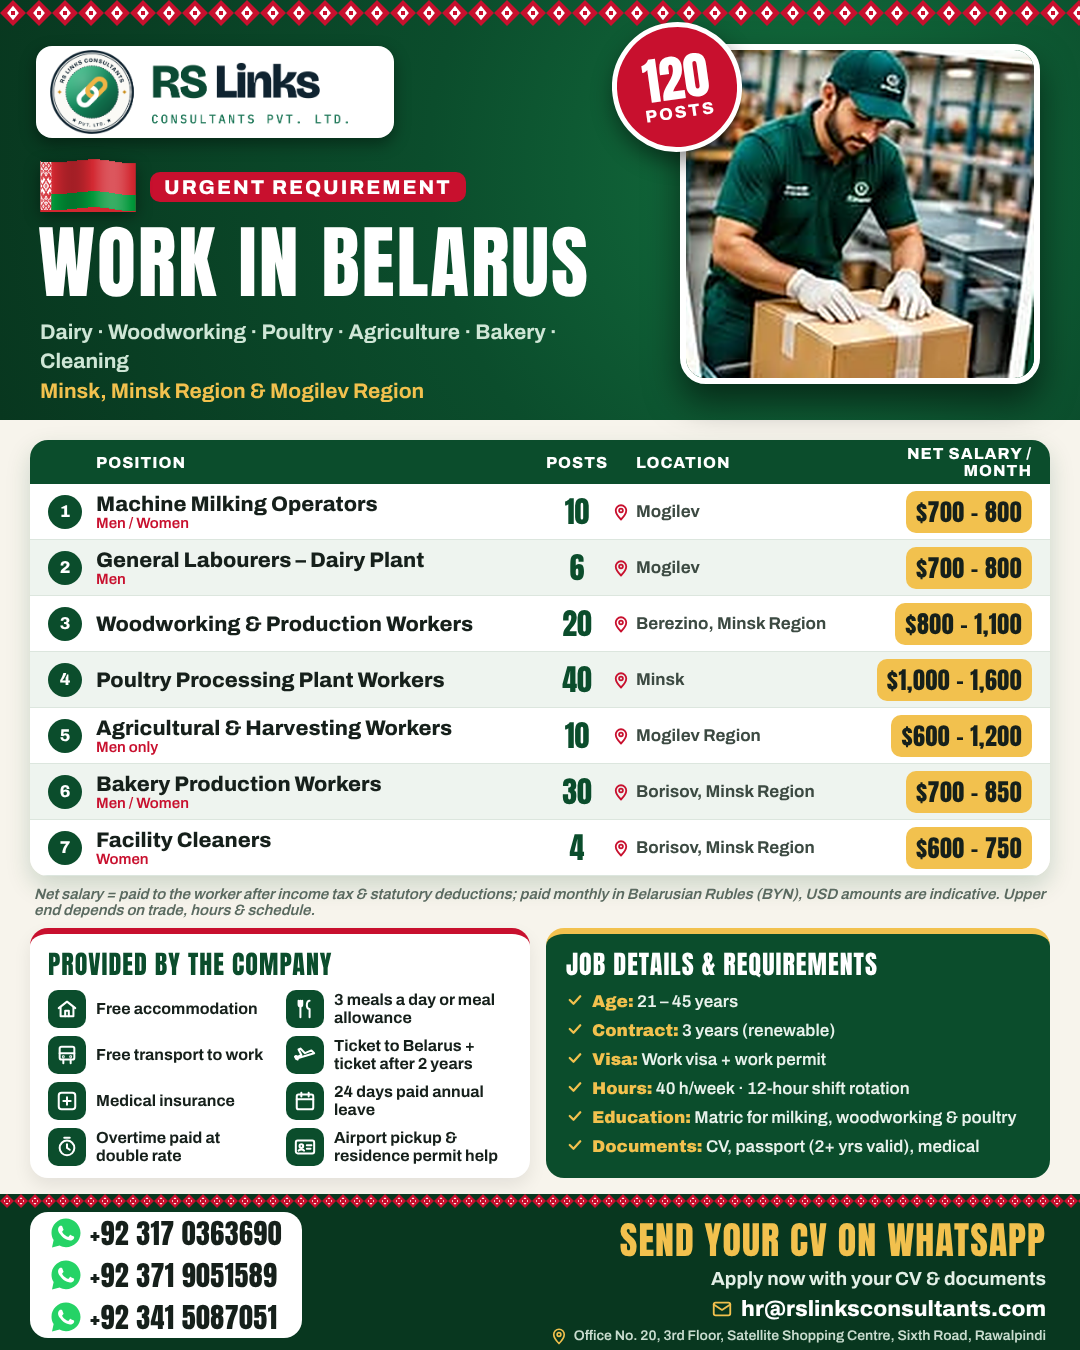
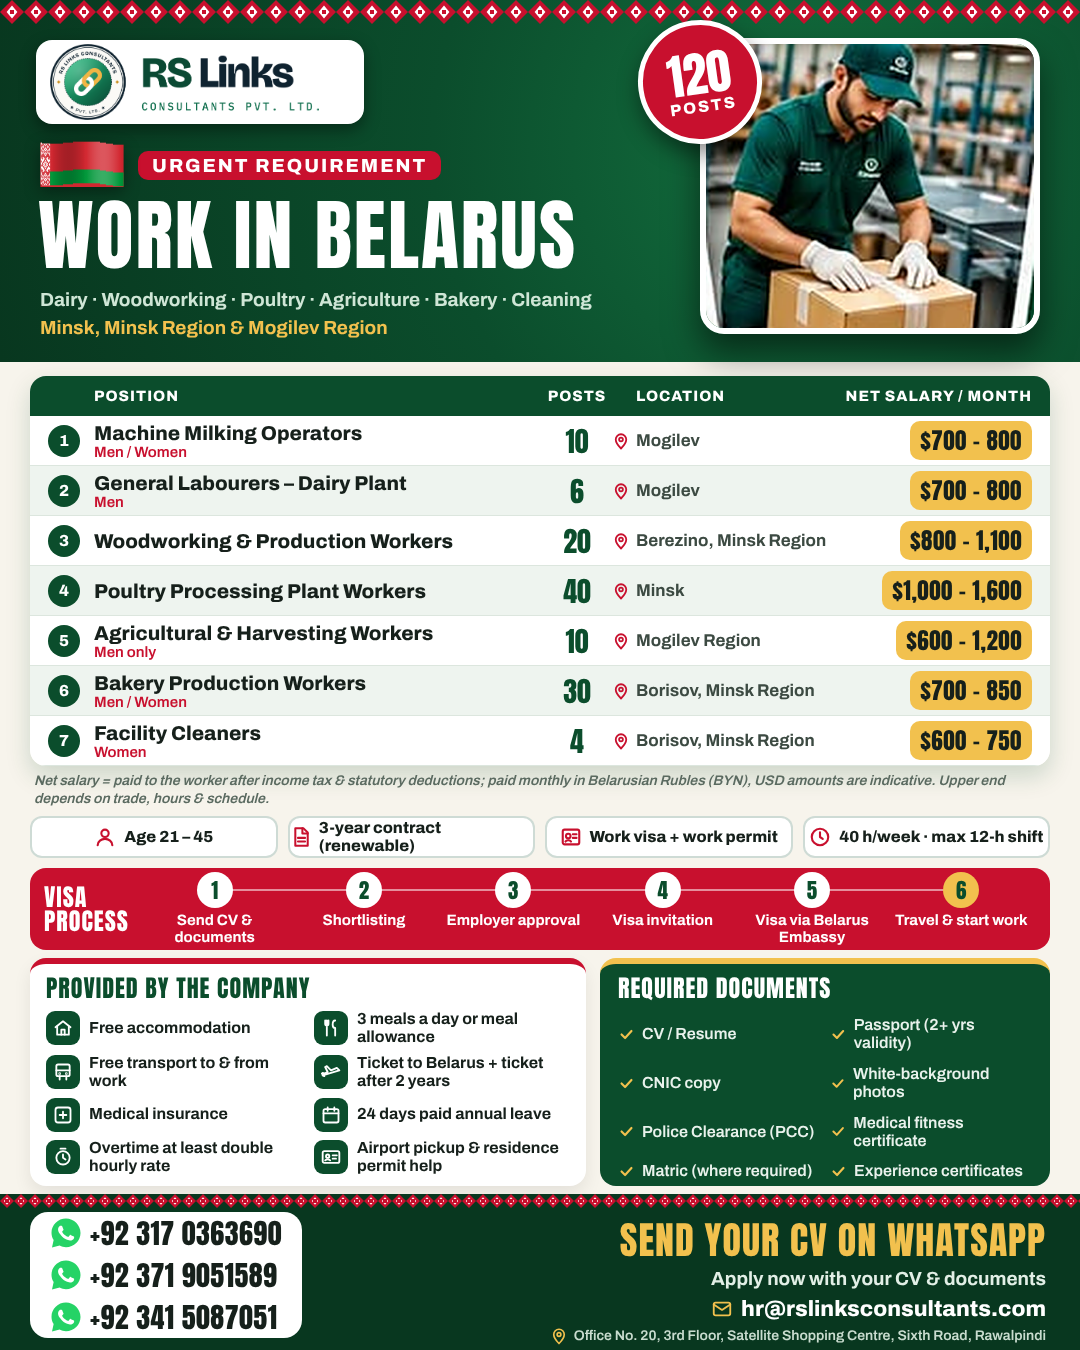
Belarus 120 ad v2: accuracy fixes vs demand letter, add visa process and required documents
Claude-Session: https://claude.ai/code/session_01YJ5ofgU8QCiWTsYR9pvXG4

diff --git a/src/belarus_120.py b/src/belarus_120.py
@@ -1,7 +1,10 @@
 """Belarus — 120 workers, 7 trades, English (2026-10-19). Facts: demands/2026-10-19-belarus-120/facts.md (from the
 user's demand-letter PDF; employer not named). Design: "green ledger" — deep-green hero with Belarus ornament band,
 framed real RS Links photo, red 120-posts seal; full vacancy table with salary chips; benefits grid + requirements
-card; white CTA strip with all three numbers."""
+card; white CTA strip with all three numbers.
+v2 (user): re-checked against the document; added visa-process steps and required-documents list in the style of the
+user's previous RS Links Belarus ad (output/RS-Links-Belarus-Factory-Workers-English-Final.png). Where the two differ,
+the demand letter wins (passport validity 2+ years, contract 3 years, salaries)."""
 from common import PHONES, PHOTOS, flag, font_css, icon, logo_img, render, whatsapp_icon
 
 GRN, GRN2, RED, CREAM, INK, GOLD = "#0B4D2C", "#08371F", "#C8102E", "#F7F4EC", "#16201B", "#F2C14E"
@@ -16,10 +19,15 @@ JOBS = [("Machine Milking Operators", "Men / Women", "10", "Mogilev", "700 – 8
         ("Bakery Production Workers", "Men / Women", "30", "Borisov, Minsk Region", "700 – 850"),
         ("Facility Cleaners", "Women", "4", "Borisov, Minsk Region", "600 – 750")]
 
-BENEFITS = [("home", "Free accommodation"), ("food", "3 meals a day or meal allowance"), ("bus", "Free transport to work"),
+BENEFITS = [("home", "Free accommodation"), ("food", "3 meals a day or meal allowance"), ("bus", "Free transport to &amp; from work"),
             ("plane", "Ticket to Belarus + ticket after 2 years"), ("medical", "Medical insurance"),
-            ("calendar", "24 days paid annual leave"), ("overtime", "Overtime paid at double rate"),
+            ("calendar", "24 days paid annual leave"), ("overtime", "Overtime at least double hourly rate"),
             ("idcard", "Airport pickup &amp; residence permit help")]
+FACTS = [("user", "Age 21 – 45"), ("doc", "3-year contract (renewable)"), ("visa", "Work visa + work permit"),
+         ("clock", "40 h/week · max 12-h shift")]
+STEPS = ["Send CV &amp; documents", "Shortlisting", "Employer approval", "Visa invitation", "Visa via Belarus Embassy", "Travel &amp; start work"]
+DOCS = ["CV / Resume", "Passport (2+ yrs validity)", "CNIC copy", "White-background photos", "Police Clearance (PCC)",
+        "Medical fitness certificate", "Matric (where required)", "Experience certificates"]
 
 
 def ornament(w, h, c1, c2):
@@ -36,49 +44,56 @@ def ornament(w, h, c1, c2):
 def build():
     photo = (PHOTOS / "rslinks_worker_pack_x3.png").as_uri()
     rows = "".join(
-        f"<div style='display:flex;align-items:center;height:56px;padding:0 18px;background:{'#fff' if i % 2 == 0 else '#EEF4EF'};border-bottom:1px solid #DCE6DE'>"
-        f"<span style='width:34px;height:34px;border-radius:50%;background:{GRN};color:#fff;font:800 17px Archivo;display:flex;align-items:center;justify-content:center;flex:none'>{i + 1}</span>"
-        f"<div style='flex:1;margin-left:14px;line-height:1.15'><div style='font:800 21px Archivo;color:{INK}'>{t}</div>"
+        f"<div style='display:flex;align-items:center;height:50px;padding:0 18px;background:{'#fff' if i % 2 == 0 else '#EEF4EF'};border-bottom:1px solid #DCE6DE'>"
+        f"<span style='width:32px;height:32px;border-radius:50%;background:{GRN};color:#fff;font:800 16px Archivo;display:flex;align-items:center;justify-content:center;flex:none'>{i + 1}</span>"
+        f"<div style='flex:1;margin-left:14px;line-height:1.12'><div style='font:800 20px Archivo;color:{INK}'>{t}</div>"
         + (f"<div style='font:600 15px Archivo;color:{RED}'>{g}</div>" if g else "") + "</div>"
-        f"<div style='width:70px;text-align:center;font:400 30px Anton;color:{GRN}'>{q}</div>"
+        f"<div style='width:70px;text-align:center;font:400 28px Anton;color:{GRN}'>{q}</div>"
         f"<div style='width:230px;display:flex;align-items:center;gap:6px;font:700 17px Archivo;color:#3C4A42'>{icon('pin', 18, RED, 2.4)}{loc}</div>"
-        f"<div style='width:190px;text-align:right'><span style='display:inline-block;background:{GOLD};border-radius:10px;padding:3px 10px;font:400 24px Anton;color:{INK};letter-spacing:.5px'>${sal}</span></div></div>"
+        f"<div style='width:190px;text-align:right'><span style='display:inline-block;background:{GOLD};border-radius:10px;padding:2px 10px;font:400 23px Anton;color:{INK};letter-spacing:.5px'>${sal}</span></div></div>"
         for i, (t, g, q, loc, sal) in enumerate(JOBS))
-    head = (f"<div style='display:flex;align-items:center;height:44px;padding:0 18px;background:{GRN};font:800 16px Archivo;color:#fff;letter-spacing:1px'>"
-            f"<div style='flex:1;margin-left:48px'>POSITION</div><div style='width:70px;text-align:center'>POSTS</div>"
+    head = (f"<div style='display:flex;align-items:center;height:40px;padding:0 18px;background:{GRN};font:800 15px Archivo;color:#fff;letter-spacing:1px'>"
+            f"<div style='flex:1;margin-left:46px'>POSITION</div><div style='width:70px;text-align:center'>POSTS</div>"
             f"<div style='width:230px;padding-left:24px;box-sizing:border-box'>LOCATION</div><div style='width:190px;text-align:right'>NET SALARY / MONTH</div></div>")
-    ben = "".join(f"<div style='display:flex;align-items:center;gap:10px'><span style='width:38px;height:38px;border-radius:10px;background:{GRN};display:flex;align-items:center;justify-content:center;flex:none'>{icon(ic, 22, '#fff', 2.2)}</span>"
+    facts = "".join(f"<div style='flex:1;display:flex;align-items:center;justify-content:center;gap:8px;background:#fff;border-radius:12px;border:2px solid {GRN}33;font:800 16px Archivo;line-height:1.15;text-align:left;color:{INK}'>{icon(ic, 22, RED, 2.3)}{t}</div>" for ic, t in FACTS)
+    steps = "".join(f"<div style='flex:1;display:flex;flex-direction:column;align-items:center;text-align:center;position:relative'>"
+                    f"<span style='width:36px;height:36px;border-radius:50%;background:{GOLD if i == 5 else '#fff'};color:{GRN};font:400 21px Anton;display:flex;align-items:center;justify-content:center;z-index:1'>{i + 1}</span>"
+                    f"<div style='font:700 15px Archivo;color:#fff;line-height:1.15;margin-top:4px'>{t}</div></div>" for i, t in enumerate(STEPS))
+    ben = "".join(f"<div style='display:flex;align-items:center;gap:9px'><span style='width:34px;height:34px;border-radius:9px;background:{GRN};display:flex;align-items:center;justify-content:center;flex:none'>{icon(ic, 20, '#fff', 2.2)}</span>"
                   f"<span style='font:700 16px Archivo;color:{INK};line-height:1.15'>{t}</span></div>" for ic, t in BENEFITS)
-    req = [("Age", "21 – 45 years"), ("Contract", "3 years (renewable)"), ("Visa", "Work visa + work permit"),
-           ("Hours", "40 h/week · 12-hour shift rotation"), ("Education", "Matric for milking, woodworking &amp; poultry"),
-           ("Documents", "CV, passport (2+ yrs valid), medical")]
-    req_li = "".join(f"<div style='display:flex;gap:8px;font:600 17px Archivo;color:#E9F2EC;line-height:1.3;margin-top:7px'>{icon('check', 18, GOLD, 3)}<span><b style='color:{GOLD}'>{k}:</b> {v}</span></div>" for k, v in req)
+    docs = "".join(f"<div style='display:flex;align-items:center;gap:7px;font:600 16px Archivo;color:#E9F2EC;line-height:1.15'>{icon('check', 17, GOLD, 3)}<span>{d}</span></div>" for d in DOCS)
     nums = "".join(f"<div style='display:flex;align-items:center;gap:8px'>{whatsapp_icon(32)}<span style='font:400 28px Anton;color:{INK};letter-spacing:.5px'>{n}</span></div>" for n in PHONES)
     body = f"""
-<div class='abs' style='top:0;left:0;width:1080px;height:420px;background:radial-gradient(circle at 75% 40%,#13703F,{GRN} 45%,{GRN2})'></div>
-<div class='abs' style='top:0;left:0'>{ornament(1080, 26, RED, '#fff')}</div>
-<div class='abs' style='top:46px;left:36px;background:#fff;border-radius:16px;padding:4px 14px;box-shadow:0 6px 16px #0006'>{logo_img('logo-horizontal-light', 'width:330px;height:84px;object-position:left')}</div>
-<div class='abs' style='top:158px;left:40px;display:flex;align-items:center;gap:14px'>
- <div style='filter:drop-shadow(0 4px 8px #0006)'>{flag('by', 96, True, 'by120')}</div>
- <div style='background:{RED};border-radius:10px;padding:4px 14px;font:800 20px Archivo;color:#fff;letter-spacing:2px'>URGENT REQUIREMENT</div></div>
-<div class='abs' style='top:222px;left:38px;font:400 80px Anton;color:#fff;letter-spacing:2px;line-height:1'>WORK IN BELARUS</div>
-<div class='abs' style='top:318px;left:40px;font:700 21px Archivo;color:#CFE6D6;line-height:1.4;width:600px'>Dairy · Woodworking · Poultry · Agriculture · Bakery · Cleaning<br><span style='color:{GOLD}'>Minsk, Minsk Region &amp; Mogilev Region</span></div>
-<div class='abs' style='top:44px;right:40px;width:360px;height:340px;border-radius:26px;overflow:hidden;border:6px solid #fff;box-shadow:0 18px 34px #0008'><img src='{photo}' style='width:100%;height:100%;object-fit:cover;object-position:55% 40%'></div>
-<div class='abs' style='top:22px;right:338px;width:130px;height:130px;border-radius:50%;background:{RED};border:5px solid #fff;box-shadow:0 10px 22px #0007;display:flex;flex-direction:column;align-items:center;justify-content:center;transform:rotate(-8deg)'>
- <div style='font:400 50px Anton;color:#fff;line-height:1'>120</div><div style='font:800 17px Archivo;color:#fff;letter-spacing:2px'>POSTS</div></div>
+<div class='abs' style='top:0;left:0;width:1080px;height:362px;background:radial-gradient(circle at 75% 40%,#13703F,{GRN} 45%,{GRN2})'></div>
+<div class='abs' style='top:0;left:0'>{ornament(1080, 24, RED, '#fff')}</div>
+<div class='abs' style='top:40px;left:36px;background:#fff;border-radius:16px;padding:4px 14px;box-shadow:0 6px 16px #0006'>{logo_img('logo-horizontal-light', 'width:300px;height:76px;object-position:left')}</div>
+<div class='abs' style='top:140px;left:40px;display:flex;align-items:center;gap:14px'>
+ <div style='filter:drop-shadow(0 4px 8px #0006)'>{flag('by', 84, True, 'by120')}</div>
+ <div style='background:{RED};border-radius:10px;padding:4px 14px;font:800 19px Archivo;color:#fff;letter-spacing:2px'>URGENT REQUIREMENT</div></div>
+<div class='abs' style='top:196px;left:38px;font:400 78px Anton;color:#fff;letter-spacing:2px;line-height:1'>WORK IN BELARUS</div>
+<div class='abs' style='top:286px;left:40px;font:700 19px Archivo;color:#CFE6D6;line-height:1.45;width:620px'>Dairy · Woodworking · Poultry · Agriculture · Bakery · Cleaning<br><span style='color:{GOLD}'>Minsk, Minsk Region &amp; Mogilev Region</span></div>
+<div class='abs' style='top:38px;right:40px;width:340px;height:296px;border-radius:24px;overflow:hidden;border:6px solid #fff;box-shadow:0 18px 34px #0008'><img src='{photo}' style='width:100%;height:100%;object-fit:cover;object-position:55% 40%'></div>
+<div class='abs' style='top:20px;right:318px;width:124px;height:124px;border-radius:50%;background:{RED};border:5px solid #fff;box-shadow:0 10px 22px #0007;display:flex;flex-direction:column;align-items:center;justify-content:center;transform:rotate(-8deg)'>
+ <div style='font:400 48px Anton;color:#fff;line-height:1'>120</div><div style='font:800 16px Archivo;color:#fff;letter-spacing:2px'>POSTS</div></div>
 
-<div class='abs' style='top:440px;left:30px;right:30px;border-radius:18px;overflow:hidden;box-shadow:0 10px 24px rgba(11,77,44,.18)'>{head}{rows}</div>
-<div class='abs' style='top:886px;left:34px;right:34px;font:italic 600 15px Archivo;color:#5A6A60'>Net salary = paid to the worker after income tax &amp; statutory deductions; paid monthly in Belarusian Rubles (BYN), USD amounts are indicative. Upper end depends on trade, hours &amp; schedule.</div>
+<div class='abs' style='top:376px;left:30px;right:30px;border-radius:16px;overflow:hidden;box-shadow:0 10px 24px rgba(11,77,44,.18)'>{head}{rows}</div>
+<div class='abs' style='top:772px;left:34px;right:34px;font:italic 600 14px Archivo;color:#5A6A60;line-height:1.3'>Net salary = paid to the worker after income tax &amp; statutory deductions; paid monthly in Belarusian Rubles (BYN), USD amounts are indicative. Upper end depends on trade, hours &amp; schedule.</div>
+<div class='abs' style='top:816px;left:30px;right:30px;height:42px;display:flex;gap:10px'>{facts}</div>
 
-<div class='abs' style='top:928px;left:30px;width:500px;height:250px;background:#fff;border-radius:18px;border-top:6px solid {RED};box-shadow:0 8px 18px rgba(0,0,0,.08);padding:10px 18px;box-sizing:border-box'>
- <div style='font:400 26px Anton;color:{GRN};letter-spacing:1px'>PROVIDED BY THE COMPANY</div>
- <div style='display:grid;grid-template-columns:1fr 1fr;gap:8px 12px;margin-top:6px'>{ben}</div></div>
-<div class='abs' style='top:928px;right:30px;width:504px;height:250px;background:{GRN};border-radius:18px;border-top:6px solid {GOLD};padding:10px 20px;box-sizing:border-box'>
- <div style='font:400 26px Anton;color:#fff;letter-spacing:1px'>JOB DETAILS &amp; REQUIREMENTS</div>{req_li}</div>
+<div class='abs' style='top:868px;left:30px;right:30px;height:82px;border-radius:16px;background:{RED};display:flex;align-items:center;padding:0 14px;box-sizing:border-box'>
+ <div style='font:400 24px Anton;color:#fff;letter-spacing:1px;line-height:1;width:96px;flex:none'>VISA<br>PROCESS</div>
+ <div style='flex:1;display:flex;position:relative'><div style='position:absolute;left:7%;right:7%;top:17px;height:2px;background:#ffffff88'></div>{steps}</div></div>
+
+<div class='abs' style='top:958px;left:30px;width:556px;height:228px;background:#fff;border-radius:16px;border-top:6px solid {RED};box-shadow:0 8px 18px rgba(0,0,0,.08);padding:6px 16px;box-sizing:border-box'>
+ <div style='font:400 24px Anton;color:{GRN};letter-spacing:1px'>PROVIDED BY THE COMPANY</div>
+ <div style='display:grid;grid-template-columns:1fr 1fr;gap:7px 12px;margin-top:4px'>{ben}</div></div>
+<div class='abs' style='top:958px;right:30px;width:450px;height:228px;background:{GRN};border-radius:16px;border-top:6px solid {GOLD};padding:6px 18px;box-sizing:border-box'>
+ <div style='font:400 24px Anton;color:#fff;letter-spacing:1px'>REQUIRED DOCUMENTS</div>
+ <div style='display:grid;grid-template-columns:1fr 1fr;gap:12px 10px;margin-top:10px'>{docs}</div></div>
 
 <div class='abs' style='top:1194px;left:0;width:1080px;height:156px;background:{GRN2}'></div>
 <div class='abs' style='top:1194px;left:0'>{ornament(1080, 14, RED, '#fff')}</div>
-<div class='abs' style='top:1212px;left:30px;height:126px;padding:0 20px;background:#fff;border-radius:18px;display:flex;flex-direction:column;justify-content:center;gap:0'>{nums}</div>
+<div class='abs' style='top:1212px;left:30px;height:126px;padding:0 20px;background:#fff;border-radius:18px;display:flex;flex-direction:column;justify-content:center'>{nums}</div>
 <div class='abs' style='top:1220px;right:34px;width:500px;text-align:right'>
  <div style='font:400 38px Anton;color:{GOLD};letter-spacing:1px;line-height:1.1'>SEND YOUR CV ON WHATSAPP</div>
  <div style='font:700 19px Archivo;color:#E2EFE6;margin-top:6px'>Apply now with your CV &amp; documents</div>

diff --git a/demands/2026-10-19-belarus-120/facts.md b/demands/2026-10-19-belarus-120/facts.md
@@ -19,3 +19,8 @@ Total 120. Net = after tax; paid monthly in BYN, USD indicative; upper end depen
 - Company provides: free accommodation (utilities, heating); food 3 meals/day or meal allowance; free transport; ticket to Belarus + ticket after 2 years; medical insurance; 24 days paid leave; airport pickup, registration, residence permit in 2 months, bank account help.
 - Return ticket paid by employer at contract end (and other listed cases).
 - Documents: CV, passport (colour scans, min 2 yrs validity), matric/equivalent where required, experience certificates, medical.
+
+## v2 (user: check accuracy + add points from last Belarus ad)
+- Fixed wording vs letter: overtime "at least double hourly rate"; hours "40 h/week, max 12-h shift" (agri is 8-12 h).
+- Added from previous RS Links Belarus ad: visa process steps (now per letter section 8) and required documents (CNIC copy, white-background photos, PCC, medical fitness) merged with letter section 9. Passport validity per letter (2+ yrs, old ad said 1 yr).
+- Not carried over (conflict with this demand): 8 h/day, EUR 450-550, 2-year contract, "Limited seats".
